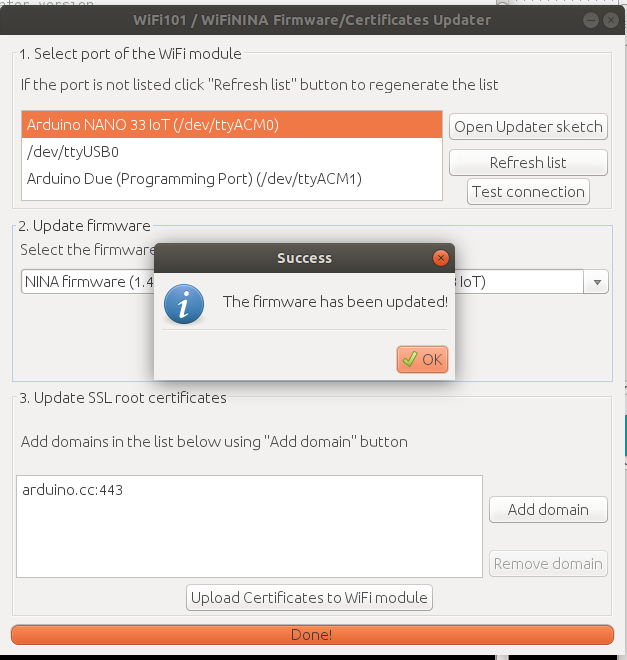
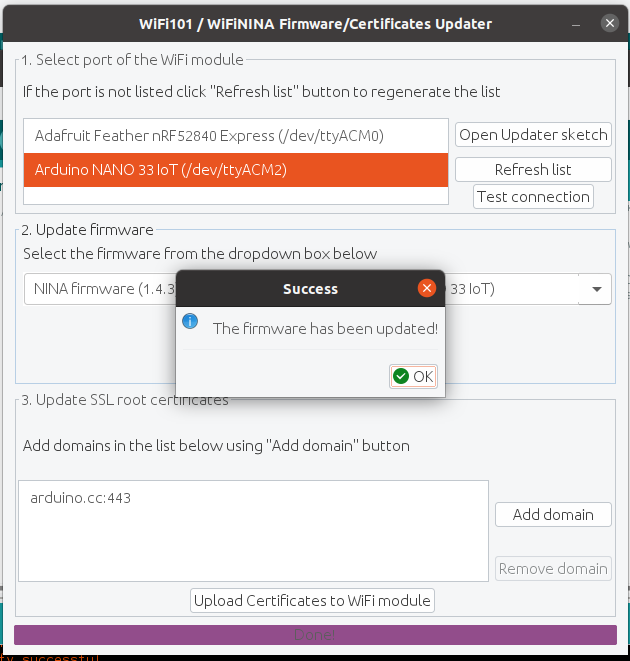
Update README for firmware v1.4.3
Update README for firmware v1.4.3 as of Jan 2010

Changed region(s): [[0.0, 0.0, 1.0, 1.0], [0.9091, 0.3939, 1.0, 0.4545]]

diff --git a/README.md b/README.md
@@ -234,11 +234,11 @@ This file must be copied into the directory:
  
  ***To be able to compile without error and automatically detect and display BOARD_NAME on Arduino SAMD (Nano-33-IoT, etc) boards***, you have to copy the whole [Arduino SAMD cores 1.8.10](Packages_Patches/arduino/hardware/samd/1.8.10) directory into Arduino SAMD directory (~/.arduino15/packages/arduino/hardware/samd/1.8.10).
  
-#### For core version v1.8.10+
+#### For core version v1.8.11+
 
-Supposing the Arduino SAMD version is 1.8.10. Now only one file must be copied into the directory:
+Supposing the Arduino SAMD version is 1.8.11. Now only one file must be copied into the directory:
 
-- `~/.arduino15/packages/arduino/hardware/samd/1.8.10/platform.txt`
+- `~/.arduino15/packages/arduino/hardware/samd/1.8.11/platform.txt`
 
 Whenever a new version is installed, remember to copy this files into the new version directory. For example, new version is x.yy.zz
 
@@ -310,8 +310,6 @@ theses files must be copied into the corresponding directory:
 - `~/.arduino15/packages/STM32/hardware/stm32/x.yy.zz/variants/NUCLEO_F767ZI/variant.h`
 - `~/.arduino15/packages/STM32/hardware/stm32/x.yy.zz/variants/NUCLEO_L053R8/variant.h`
 
-
-
 ---
 ---
 
@@ -366,11 +364,11 @@ For example
 
 ---
 
-### HOWTO Update WiFiNINA Firmware (latest version is v1.4.1 as of August 2020)
+### HOWTO Update WiFiNINA Firmware (latest version is v1.4.3 as of Jan 2021)
 
 #### 1) Update the WiFi101 / WiFiNINA FirmwareUpdater-Plugin
 
-- Download latest release from [WiFi101-FirmwareUpdater-Plugin](https://github.com/arduino/WiFi101-FirmwareUpdater-Plugin/releases). As of August 2020, the latest WiFiNINA FW is v1.4.1, use [WiFi101-FirmwareUpdater-Plugin version v0.10.12](https://github.com/arduino/WiFi101-FirmwareUpdater-Plugin/releases/tag/v0.10.12).
+- Download latest release from [WiFi101-FirmwareUpdater-Plugin](https://github.com/arduino/WiFi101-FirmwareUpdater-Plugin/releases). As of January 2021, the latest WiFiNINA FW is v1.4.3, use [WiFi101-FirmwareUpdater-Plugin version v0.10.13](https://github.com/arduino/WiFi101-FirmwareUpdater-Plugin/releases/tag/v0.10.13).
 - Unzip the downloaded file into WiFi101 folder (WiFi101/tool/firmwares folder and WiFi101/tool/WiFi101.jar file)
 - Copy the whole WiFi101 folder to ./arduino-1.8.yy/tools to overwrite the old WiFi101 folder.
 - Restart the Arduino IDE if running.
@@ -396,7 +394,7 @@ For example
 
 - Select the port of your board from the list under "1. Select port of the WiFi module".
 
-- Select the latest firmware,  e.g. "WiFiNINA firmware (1.4.1)(Arduino MKR WiFi1010, Arduino NANO 33 IoT) under "2. Update firmware".
+- Select the latest firmware,  e.g. "WiFiNINA firmware (1.4.3)(Arduino MKR WiFi1010, Arduino NANO 33 IoT) under "2. Update firmware".
 
 - Click "Update Firmware"
 
@@ -419,12 +417,13 @@ For example
 - If OK, terminal will show PASSED as follows:
 
 ```
-WiFiNINA firmware check.
-
-Firmware version installed: 1.4.1
-Latest firmware version available : 1.4.1
+Start WiFiNINA CheckFirmwareVersion on SAMD_NANO_33_IOT
+Version 1.8.0
+Firmware version installed: 1.4.3
+Latest firmware version available : 1.4.3
 
 Check result: PASSED
+
 ```
 ---
 
